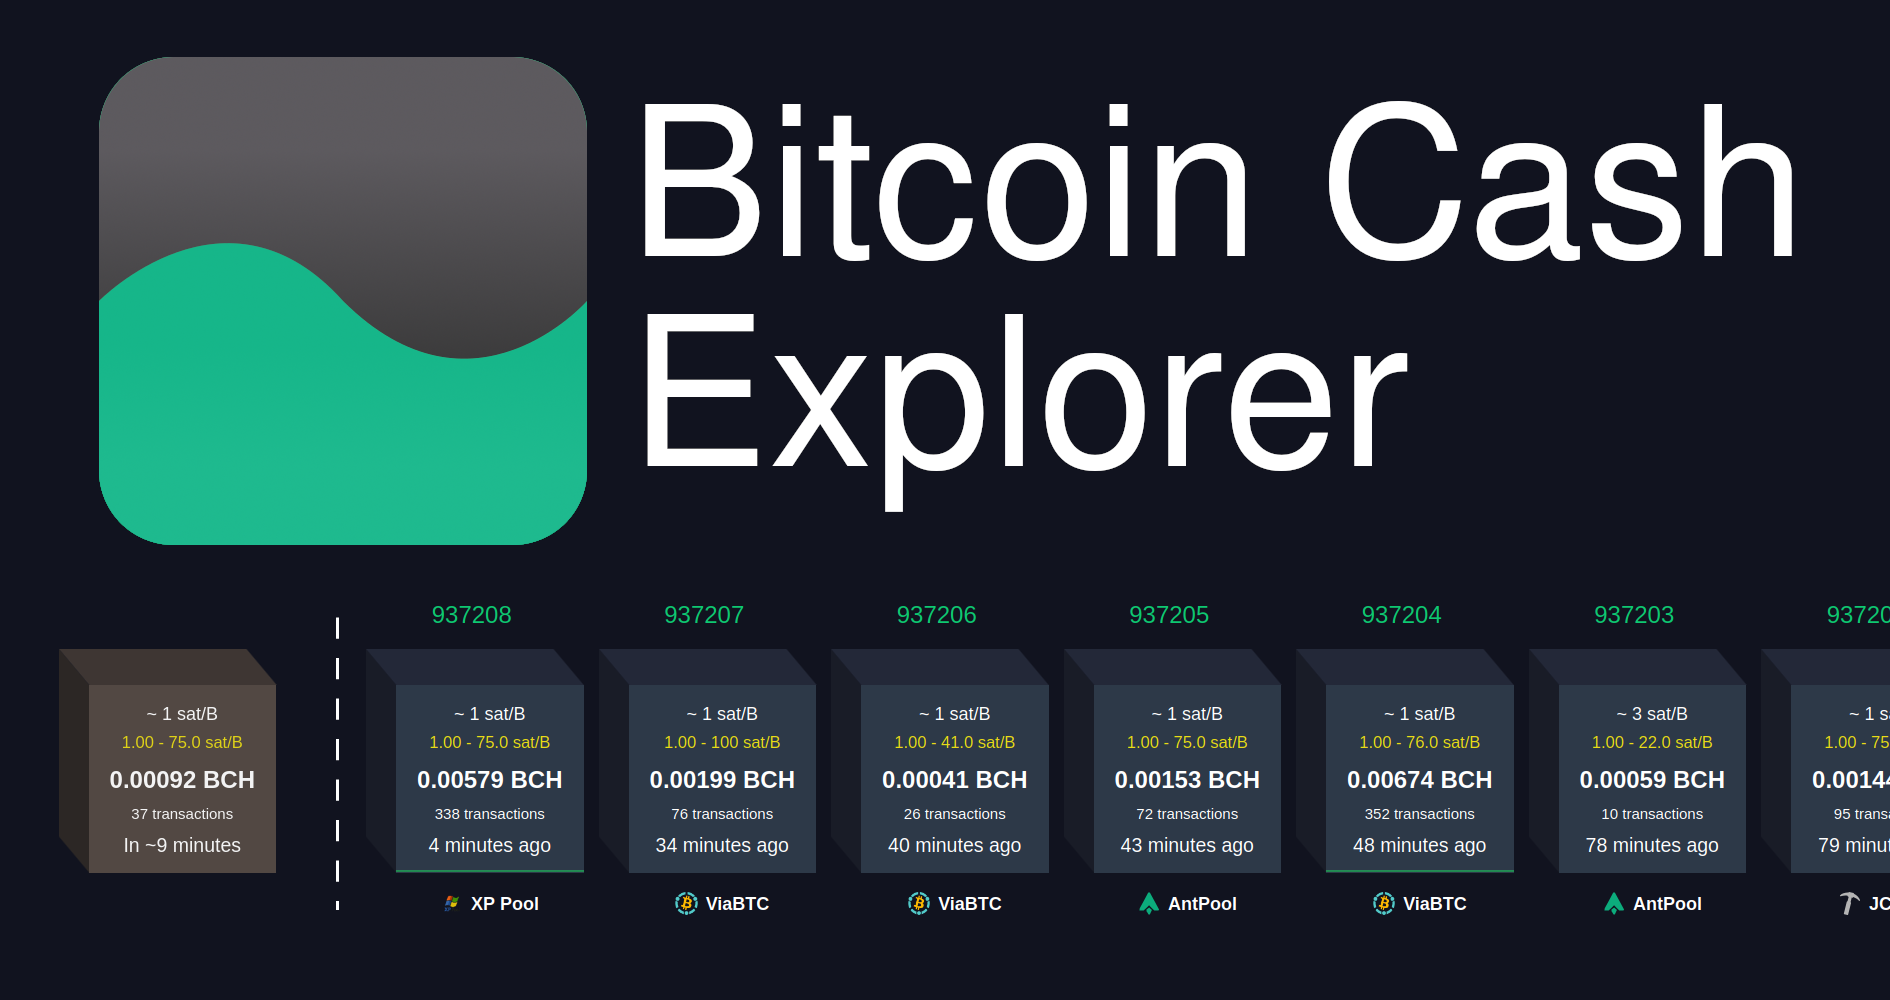
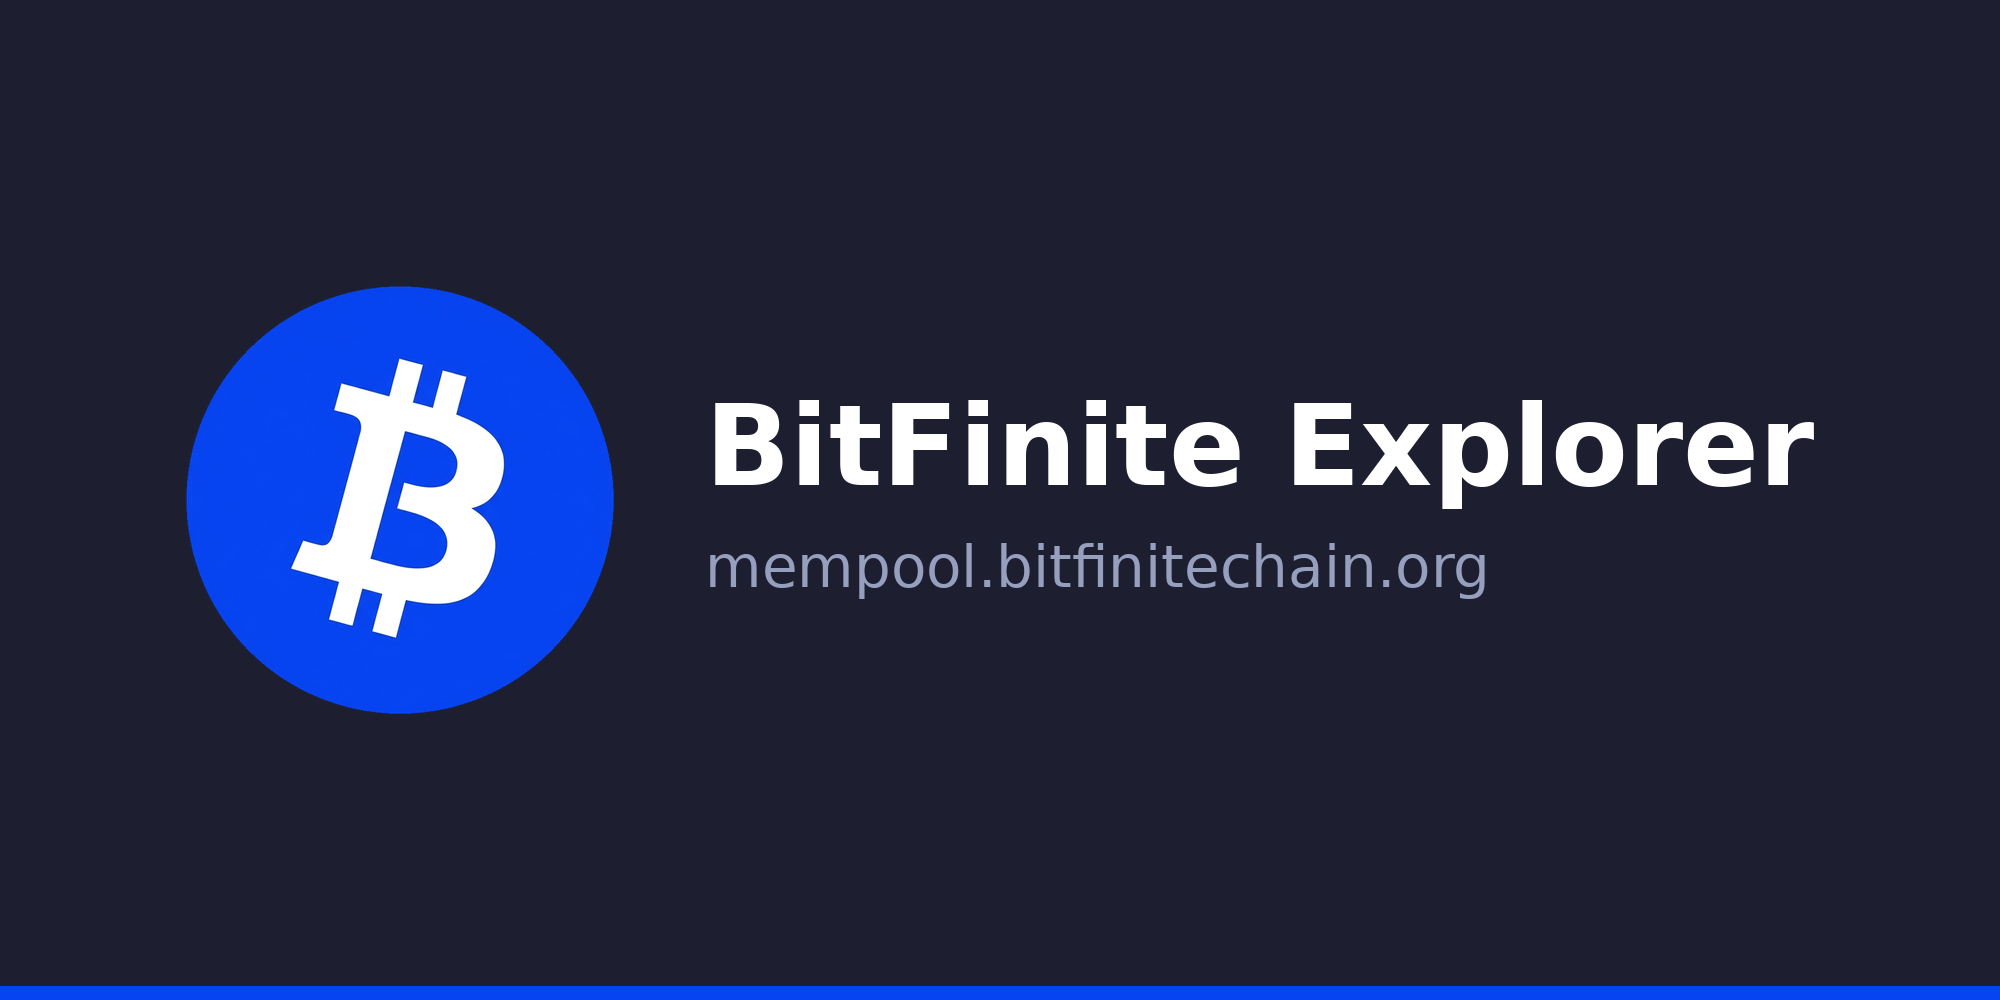
rebrand(mempool): regenerate raster brand assets for BitFinite
- qr_code.png: donation QR now encodes bfx:fzfj9z07nxrug9jnx02583h2sgs28p7w3svmdgv0rx (decode-verified)
- favicons: full set (16/32/180/192/512/mstile/.ico) from BitFinite blue-circle mark; apple-touch on white
- site.webmanifest: name 'BitFinite Explorer'/'BitFinite', theme #0644f1, bg #1d1f31
- browserconfig: TileColor #1d1f31
- previews/explorer_preview.png: branded OG card (logo + BitFinite Explorer + domain)
- bcmr User-Agent BCHExplorer -> BitFiniteExplorer

diff --git a/frontend/src/app/services/bcmr.service.ts b/frontend/src/app/services/bcmr.service.ts
@@ -55,7 +55,7 @@ export class BcmrService {
 
     // If not in cache, fetch from API and cache the result
     const httpOptions = {
-      headers: { Accept: 'application/json', 'User-Agent': 'BCHExplorer/3.3' },
+      headers: { Accept: 'application/json', 'User-Agent': 'BitFiniteExplorer/3.3' },
       responseType: 'json' as const,
     };
     // Slightly different end-points between different BCMR services
